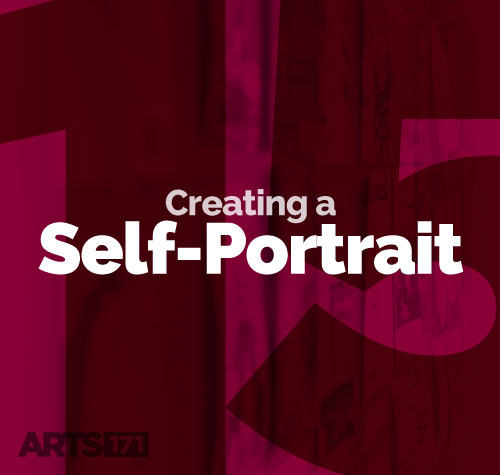
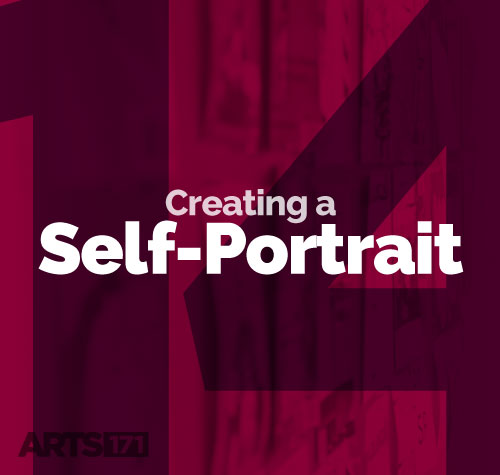
Publishing Final

diff --git a/50355/index.html b/50355/index.html
@@ -52,13 +52,13 @@
 	<div class="container">
 		<div class="carousel-caption">
 			
-			<h1>Web Design</h1>
+			<h1>Self Portait</h1>
 			
-			<p class="lead"> For the next <strong >two</strong> weeks we will be creating two different <a href="https://d2l.lcc.edu/d2l/le/content/118290/Home?itemIdentifier=D2L.LE.Content.ContentObject.ModuleCO-2753097">web designs</a>.</p>
-			<p>	Using Photoshop you can mock up a <a href="https://d2l.lcc.edu/d2l/le/content/118290/Home?itemIdentifier=D2L.LE.Content.ContentObject.ModuleCO-2753097">web design</a> that can be used to build a site.</p>
+			<p class="lead"> These last few weeks you will be working on your final project, a <a href="https://d2l.lcc.edu/d2l/le/content/118290/Home?itemIdentifier=D2L.LE.Content.ContentObject.ModuleCO-2753098">self portrait</a>.</p>
+			<p>	Using all of the skills that you have learned through the semester you will make a movie poster for your <a href="https://d2l.lcc.edu/d2l/le/content/118290/Home?itemIdentifier=D2L.LE.Content.ContentObject.ModuleCO-2753098">self portrait</a>.</p>
 			
 			<div>
-				<a class="btn btn-lg btn-web1" href="https://d2l.lcc.edu/d2l/le/content/118290/Home?itemIdentifier=D2L.LE.Content.ContentObject.ModuleCO-2753097" role="button">View Content</a>
+				<a class="btn btn-lg btn-portrait" href="https://d2l.lcc.edu/d2l/le/content/118290/Home?itemIdentifier=D2L.LE.Content.ContentObject.ModuleCO-2753098" role="button">View Content</a>
 			</div>
 			
 		</div>
@@ -82,34 +82,30 @@
 		
 			<div class="row featurette">
 	<div class="col-md-5 col-md-push-7">
-		<img class="featurette-image img-responsive" src="assets/images/features/web2.jpg" alt="Week Thirteen: Web Design">
+		<img class="featurette-image img-responsive" src="assets/images/features/selfportrait.jpg" alt="Week Fourteen: Self Portrait">
 	</div>
 	
 	<div class="col-md-7 col-md-pull-5">
 	
-		<h1 class="featurette-heading"><span class="text-muted"> Week Thirteen: </span><br /> Web Design </h1>
+		<h1 class="featurette-heading"><span class="text-muted"> Week Fourteen: </span><br /> Self Portrait </h1>
 		
 		 <p class="lead">
-	          Last week you took the time to work on designing a desktop version of the website. A number of years ago when creating web designs that would suffice.
+	          During these final weeks of class, you will work on a self portrait. But instead of it being just a simple picture of yourself, you will need to use all of the different skills that you've learned throughout the semester, and create a movie poster starring yourself.
           </p>
-          
-          <p class="lead">
-	          But now we live in a world where mobile devices like phones and tablets connect us to the internet in many different ways. And with those different ways comes different screen sizes and different resolutions.
-          </p>
-          
+                   
           <p>
-	          This week you will need to take your desktop designs and reduce them to mobile versions. 
+	          So first, think about what kind of movie you would like to star in. Or think about what kind of movie does your life currently remind you of. Take these ideas and design your self portrait movie poster.
           </p>
           
           <hr class="line"/>
           
           <p>
-          	In this <a href="https://d2l.lcc.edu/d2l/le/content/118290/Home?itemIdentifier=D2L.LE.Content.ContentObject.ModuleCO-2753097">module</a> we will go over how to create a web design. <!-- View the <a href=" @webdesign2-demo-video ">mobile web design demo video</a> and--> Complete the <a href="https://d2l.lcc.edu/d2l/le/content/118290/viewContent/2753150/View">assignment</a>, which is due <strong>Saturday, April 16, 2016</strong> at <strong>11:59pm</strong> EST.
+          	In this <a href="https://d2l.lcc.edu/d2l/le/content/118290/Home?itemIdentifier=D2L.LE.Content.ContentObject.ModuleCO-2753098">module</a> we will make a self portrait movie poster. View the <a href="https://d2l.lcc.edu/d2l/le/content/118290/viewContent/2753154/View">project</a> details, which is due <strong>Saturday, May 7, 2016</strong> at <strong>11:59pm</strong> EST.
           </p>
 
           
 		<div>
-			<a class="btn btn-lg btn-web1" href="https://d2l.lcc.edu/d2l/le/content/118290/Home?itemIdentifier=D2L.LE.Content.ContentObject.ModuleCO-2753097" role="button">View Content</a>
+			<a class="btn btn-lg btn-portrait" href="https://d2l.lcc.edu/d2l/le/content/118290/Home?itemIdentifier=D2L.LE.Content.ContentObject.ModuleCO-2753098" role="button">View Content</a>
 		</div>
 	</div>
 	
